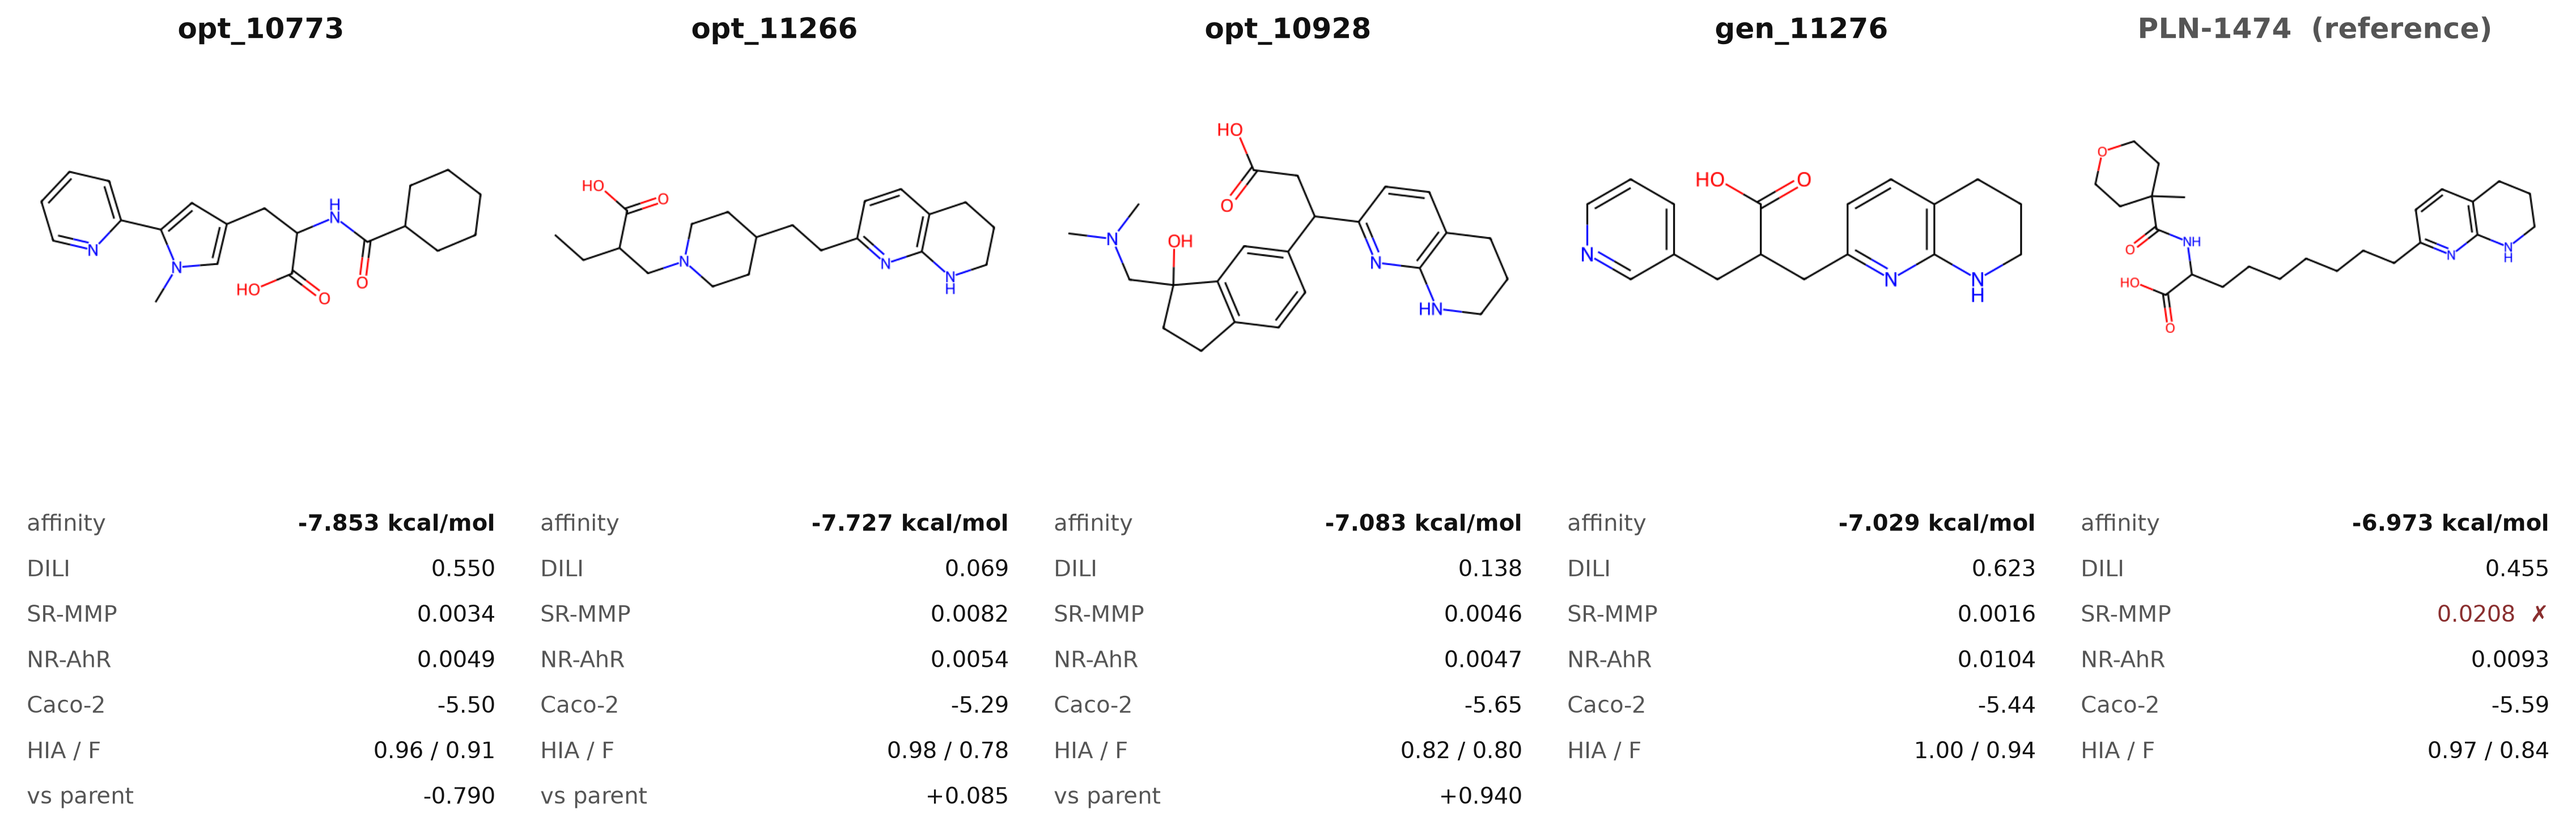
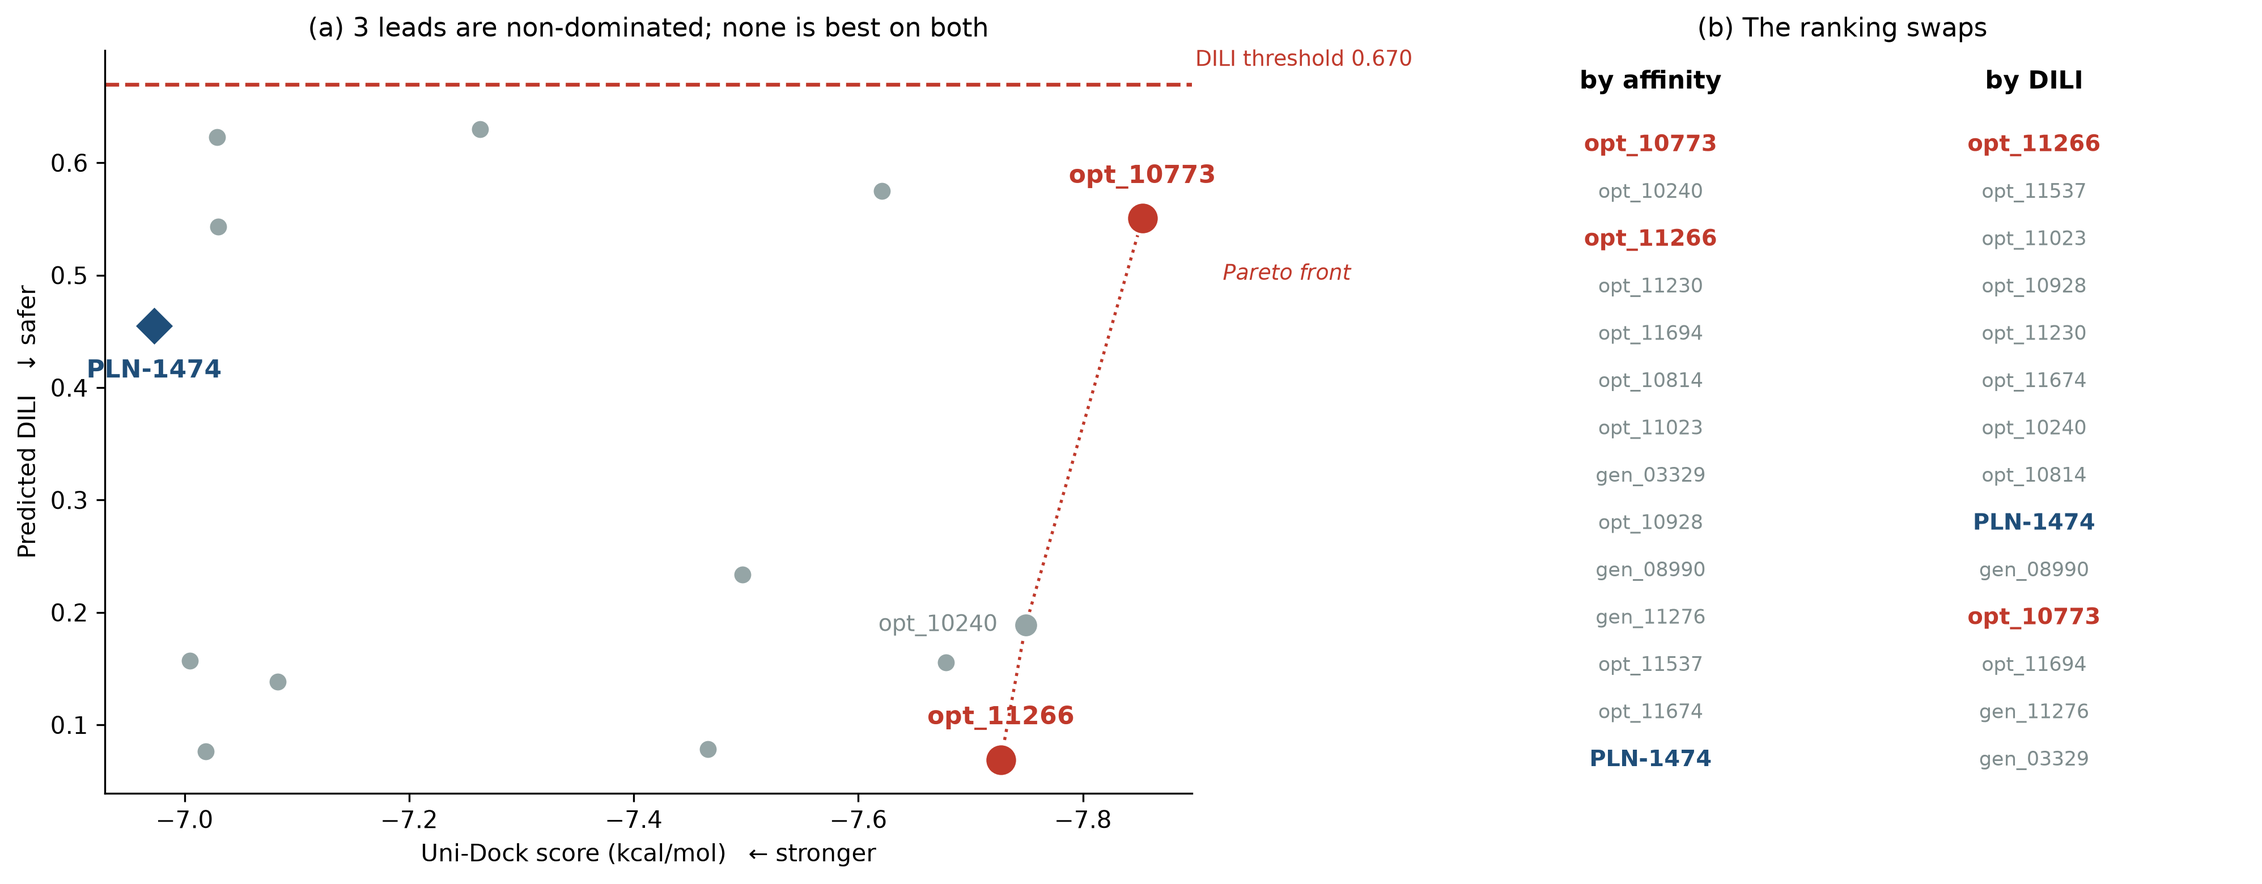
Replace the lead cards with a landscape that shows why there are two leads
fig3_leads.png was four structure cards chosen by a shortlist rule, which made
the rule look like the result and no longer matched a README that reports two
leads and eleven others. It is now affinity against predicted DILI for all
thirteen plus the reference, and the argument is visible rather than asserted:
opt_10773 is alone at the left edge, opt_11266 alone at the bottom, and nothing
is at both. A second panel ranks every compound on each axis separately, so the
swap between the two orderings answers the obvious objection that the axes were
chosen to suit the conclusion. The card version is kept as fig3_leads_cards.png.

Drawing it exposed an overstatement I was about to print. The non-dominated set
on these two axes has THREE members, not two: opt_10240 sits at (-7.749, 0.189),
between the two reported leads and dominated by neither. The figure now draws
the Pareto front and labels it, and says in both caption and docstring that
opt_10240 was set aside on criteria the plot does not show. Labelling only the
two reported leads would have let the figure imply the axes picked them.

That correction then exposed a second error, in the README text I wrote for
section 4.3: opt_10240 was described as a DIANION. It is q = +2 with a single
carboxylate - three protonated basic centres against one carboxylate, a
polycation. The actual dianion among the leads is opt_11694 (q = -2, two
carboxylates), whose HIA of 0.409 is the lowest of the thirteen and consistent
[…]

diff --git a/scripts/poster_figures_v4.py b/scripts/poster_figures_v4.py
@@ -472,6 +472,122 @@ def dili_figure(out_path: Path, admet_csv: Path, thresholds: dict,
 
 
 
+ALL_LEADS = [
+    "gen_03329", "gen_08990", "gen_11276",
+    "opt_10773", "opt_10240", "opt_11266", "opt_11230", "opt_11694",
+    "opt_10814", "opt_11023", "opt_10928", "opt_11537", "opt_11674",
+]
+
+
+def _all_lead_rows(root: Path = Path(".")) -> list[dict]:
+    """All thirteen leads plus the reference: affinity, DILI, Caco-2, charge."""
+    r = root / "results/v4_TL-B"
+    direct = {x["label"]: x for x in csv.DictReader(open(r / "selection.csv"))
+              if x["track"] == "direct_lead"}
+    opt = {x["label"]: x for x in csv.DictReader(open(r / "optimised_leads.csv"))}
+    panel = {x["label"]: x for x in
+             csv.DictReader(open(r / "admet_with_panel.csv"))}
+    out = []
+    for label in ALL_LEADS:
+        x = opt.get(label) or direct[label]
+        out.append(dict(label=label, aff=_f(x["affinity"]), dili=_f(x["DILI"]),
+                        caco=_f(x["caco2"]), track="opt" if label in opt else "gen"))
+    x = panel["PANEL_PLN-1474"]
+    out.append(dict(label="PLN-1474", aff=-6.973, dili=_f(x["DILI"]),
+                    caco=_f(x["Caco2_Wang"]), track="ref"))
+    return out
+
+
+def landscape_figure(out_path: Path, rows: list[dict], thresholds: dict) -> None:
+    """All thirteen leads on the two axes that actually separated them.
+
+    WHY THIS REPLACED A FOUR-CARD PANEL. The cards showed four structures chosen
+    by a shortlist rule, which made the rule look like the result. Affinity against
+    predicted DILI shows the whole population and lets the leads argue for
+    themselves: opt_10773 is alone at the left edge, opt_11266 alone at the bottom,
+    and no molecule is at both. That is why the campaign reports two leads rather
+    than one, and a card panel cannot show it.
+
+    THE PARETO FRONT IS DRAWN BECAUSE IT HAS THREE MEMBERS, NOT TWO. opt_10240
+    (-7.749, 0.189) is also non-dominated on these axes; it was set aside on
+    criteria this plot does not show - MW 524.6, the heaviest lead, and its pH 7.4
+    charge state. Labelling only the two reported leads would let the figure imply
+    the axes chose them, when one of the three was excluded by something else.
+    """
+    plt = _style()
+    fig, (ax, ax2) = plt.subplots(
+        1, 2, figsize=(13.4, 5.3), gridspec_kw={"width_ratios": [1.35, 1.0]})
+
+    th = thresholds["DILI"]
+    ax.axhline(th, color="#c0392b", ls="--", lw=1.6, zorder=1)
+    ax.text(-7.9, th + 0.012, f"DILI threshold {th:.3f}", fontsize=9,
+            color="#c0392b", va="bottom")
+
+    # Non-dominated set: minimise affinity and DILI together. Walk the leads in
+    # affinity order and keep each one that improves on the best DILI so far.
+    front, best = [], float("inf")
+    for row in sorted((r for r in rows if r["track"] != "ref"),
+                      key=lambda r: r["aff"]):
+        if row["dili"] < best:
+            front.append(row)
+            best = row["dili"]
+    ax.plot([r["aff"] for r in front], [r["dili"] for r in front],
+            color="#c0392b", lw=1.3, ls=":", zorder=2)
+    ax.annotate("Pareto front", (front[0]["aff"], front[0]["dili"]),
+                textcoords="offset points", xytext=(34, -26), ha="left",
+                fontsize=9, color="#c0392b", style="italic")
+
+    front_labels = {r["label"] for r in front}
+    for row in rows:
+        hero = row["label"] in HERO
+        ref = row["track"] == "ref"
+        colour = "#c0392b" if hero else ("#1f4e79" if ref else "#95a5a6")
+        on_front = row["label"] in front_labels
+        ax.scatter(row["aff"], row["dili"],
+                   s=190 if hero else (150 if ref else (110 if on_front else 70)),
+                   marker="D" if ref else "o", color=colour, zorder=4,
+                   edgecolor="white", linewidth=1.2)
+        if hero or ref or row["label"] in front_labels:
+            on_front_only = not (hero or ref)
+            offset = (-12, 0) if on_front_only else (0, 15 if not ref else -22)
+            ax.annotate(row["label"],
+                        (row["aff"], row["dili"]), textcoords="offset points",
+                        xytext=offset,
+                        ha="right" if on_front_only else "center",
+                        va="center" if on_front_only else "baseline",
+                        fontsize=9.5 if on_front_only else 10.5,
+                        fontweight="normal" if on_front_only else "bold",
+                        color="#7f8c8d" if on_front_only else colour)
+    ax.set_xlabel("Uni-Dock score (kcal/mol)   \u2190 stronger")
+    ax.set_ylabel("Predicted DILI   \u2193 safer")
+    ax.set_title(f"(a) {len(front)} leads are non-dominated; none is best on both",
+                 fontsize=11)
+    ax.invert_xaxis()
+
+    # The second panel answers the obvious objection to panel (a) - "you picked the
+    # two axes that make your point" - by ranking every lead on each axis separately.
+    order_a = sorted(rows, key=lambda r: r["aff"])
+    order_d = sorted(rows, key=lambda r: r["dili"])
+    for col, (order, title) in enumerate(((order_a, "by affinity"),
+                                          (order_d, "by DILI"))):
+        for rank, row in enumerate(order):
+            hero = row["label"] in HERO
+            ref = row["track"] == "ref"
+            colour = "#c0392b" if hero else ("#1f4e79" if ref else "#7f8c8d")
+            ax2.text(col, -rank, row["label"],
+                     fontsize=9.5 if (hero or ref) else 8.5,
+                     fontweight="bold" if (hero or ref) else "normal",
+                     color=colour, ha="center", va="center")
+        ax2.text(col, 1.2, title, fontsize=10.5, fontweight="bold", ha="center")
+    ax2.set_xlim(-0.55, 1.55); ax2.set_ylim(-len(rows) + 0.3, 2.0)
+    ax2.axis("off")
+    ax2.set_title("(b) The ranking swaps", fontsize=11)
+
+    fig.tight_layout()
+    fig.savefig(out_path)
+    plt.close(fig)
+
+
 LEADS = ["opt_10773", "opt_11266", "opt_10928", "gen_11276"]
 
 
@@ -853,8 +969,12 @@ def main(argv=None) -> int:
     print(f"  fig4_dili.png       conjunction {info['conjunction']} / {info['n']}")
 
     rows = _lead_rows()
-    leads_figure(args.out_dir / "fig3_leads.png", rows, th)
-    print(f"  fig3_leads.png      {[r['label'] for r in rows]}")
+    leads_figure(args.out_dir / "fig3_leads_cards.png", rows, th)
+    print(f"  fig3_leads_cards.png {[r['label'] for r in rows]}")
+
+    all_rows = _all_lead_rows()
+    landscape_figure(args.out_dir / "fig3_leads.png", all_rows, th)
+    print(f"  fig3_leads.png      landscape, {len(all_rows)} compounds")
 
     pharmacophore_figure(args.out_dir / "fig5_pharmacophore.png")
     print("  fig5_pharmacophore.png")

diff --git a/README.md b/README.md
@@ -189,13 +189,22 @@ PLN-1474·bexotegrast와 같은 등급이다(`results/v4_dili_mechanism.md`).
 `gen_` 접두사는 생성 라이브러리에서 직행한 리드, `opt_`는 mol2mol 유사체 생성을
 거친 최적화 리드다. Δ는 부모 대비 결합력 변화로, 음수가 개선이다.
 
-이 11종이 §4.2의 두 분자에 밀린 이유는 축마다 다르다. `opt_10240`은 pH 7.4에서
-**이음이온**(q = +2는 염기 2개를 뜻하며, 카복실레이트 2개와 합쳐 알짜 전하가
-갈린다)이고 MW 524.6으로 가장 무겁다. `opt_11694`는 HIA 0.409로 흡수 예측이
-13종 중 가장 나쁘다. `gen_03329`·`gen_11276`·`gen_08990`은 직행 리드로 DILI가
-0.54~0.63 — 임계값 아래이지만 참조 화합물보다 높다. `opt_11023`은 §4.2의 두
-분자에 거의 근접하나(DILI 0.0782, Caco-2 −5.254) 결합력이 −7.466으로 0.26~0.39
-낮다.
+이 11종이 §4.2의 두 분자에 밀린 이유는 축마다 다르다.
+
+**`opt_10240`은 결합력과 DILI 두 축만 보면 비지배(Pareto) 분자다** — `opt_10773`
+(−7.853, DILI 0.5505)과 `opt_11266`(−7.727, 0.0690) 사이에서 (−7.749, 0.1886)에
+놓여 어느 쪽에도 지배되지 않는다(§4.2의 그림 `figures/v4/fig3_leads.png`).
+밀려난 근거는 **그 두 축 밖**에 있다. pH 7.4에서 알짜 전하가 **+2**로, 염기 세
+곳(피페라진 2곳 + THN)이 양성자화되고 카복실레이트 하나가 상쇄된 상태다. MW
+524.6으로 13종 중 가장 무겁고, 투과성도 −5.804로 하위권이다. 전하 밀도가 높은
+큰 분자라는 점이 §4.4의 흡수 축에서 불리하게 작용한다.
+
+`opt_11694`는 **유일한 이음이온**이다(q = −2, 카복실산 2개). HIA 0.409로 13종 중
+가장 낮으며, 이는 §4.4가 측정한 전하–흡수 단조 관계(이음이온 중앙값 0.687 대
+일음이온 0.971)와 일치한다. `gen_03329`·`gen_11276`·`gen_08990`은 직행 리드로
+DILI가 0.54~0.63 — 임계값 아래이지만 참조 화합물(0.4552)보다 높다. `opt_11023`은
+§4.2의 두 분자에 가장 근접하나(DILI 0.0782, Caco-2 −5.254로 13종 최고) 결합력이
+−7.466으로 0.26~0.39 낮아 Pareto front에서 `opt_11266`에 지배된다.
 
 **최적화 리드 10종 중 7종이 α-1치환**이라는 점은 설계상의 비대칭이다. mol2mol은
 카복실레이트를 약리단으로 보존하지만 그 α 위치의 치환은 보상하지 않았다 —
